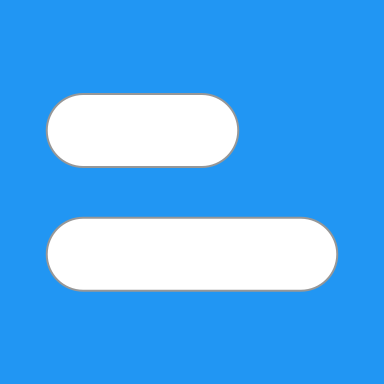
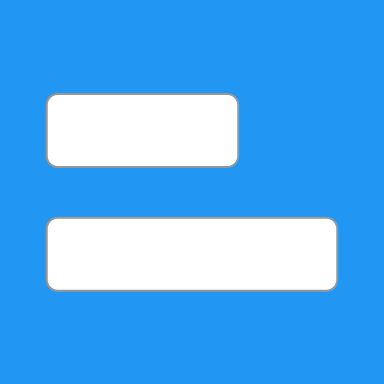
update
* move allActionLink's position
* change App icon

diff --git a/docs/index.7ed35fd9.js b/docs/index.7ed35fd9.js
@@ -1,0 +1,1 @@
+(window.webpackJsonp=window.webpackJsonp||[]).push([["index"],{"2YZa":function(e,t,n){"use strict";n.r(t);var a={};n.r(a),n.d(a,"goal",function(){return pe}),n.d(a,"initState",function(){return Ee}),n.d(a,"unit",function(){return fe}),n.d(a,"action",function(){return be});var l=n("Jkrb");Object(l.b)();var r=n("q1tI"),i=n("i8i4"),c=n("wSuE"),o=n("/MKj"),s=n("oFFJ"),m=n("jKe7"),u=n("2INN"),d=n("DvoB"),g=n("SUMQ"),p=n("r1Q0"),E=n("2iEm"),f=n("HWyw");const b=Object(l.c)({grow:{flexGrow:1,overflow:"hidden",whiteSpace:"nowrap",textOverflow:"ellipsis"}});function y(e){const t=b(),{title:n,backButton:a=!1,children:l}=e;const i=a?r.createElement(d.k,{color:"inherit",onClick:function(){history.back()}},r.createElement(f.b,null)):null;return r.createElement(d.a,{position:"sticky"},r.createElement(d.y,null,i,r.createElement(d.z,{className:t.grow,variant:"h6",color:"inherit"},n),l))}const h=Object(l.c)(e=>({container:{padding:3*e.spacing.unit,paddingTop:0}}));function v({className:e="",children:t}){const n=h();return r.createElement("div",{className:`${n.container} ${e}`},t)}const w=Object(l.c)(e=>({track:{position:"absolute",left:0,bottom:0,width:"100%",height:"100%",backgroundColor:e.palette.primary.light,opacity:.1,pointerEvents:"none",transformOrigin:"left"}}));function k({value:e=0}){const t=w();return r.createElement("div",{style:{transform:`scaleX(${e.toFixed(2)})`},className:t.track})}const x=()=>{};function j(e,t){"[object Date]"!=={}.toString.call(e)&&(e=new Date(parseInt(e,10)));const n={"y+":e.getFullYear(),"M+":e.getMonth()+1,"d+":e.getDate(),"h+":e.getHours(),"m+":e.getMinutes(),"s+":e.getSeconds(),"S+":e.getMilliseconds()};for(const e in n)new RegExp(`(${e})`).test(t)&&(t=t.replace(RegExp.$1,`00${n[e]}`.substr(-RegExp.$1.length)));return t}const S=["本","篇","米","千米","小时","天"],I="/little-goal";function O(e,...t){const n=[];return t.forEach((t,a)=>{n.push(e[a]),n.push(t)}),n.push(e[e.length-1]),`${I}${n.join("")}`}const C=Object(l.c)(e=>({listItem:{border:"1px solid",borderColor:e.palette.primary.light,paddingTop:e.spacing.unit,paddingBottom:e.spacing.unit,marginBottom:1.5*e.spacing.unit,borderRadius:e.shape.borderRadius,overflow:"hidden"},link:{flex:1,marginRight:1.5*e.spacing.unit,color:e.palette.primary.dark,textDecoration:"none"},actionAddLink:{color:e.palette.primary.dark,fontSize:"1rem",lineHeight:"1rem"},icon:{fontSize:"1.125rem"}}));var T=Object(o.b)(e=>({goalList:e.goal}))(function({goalList:e}){const t=C(),n=e.map(e=>{const{id:n,title:a,completeAmount:l=0,amount:i}=e;return r.createElement(d.n,{key:n,className:t.listItem},r.createElement(k,{value:l/i}),r.createElement(E.a,{className:t.link,to:O`/goal/${n}`},a),r.createElement(E.a,{className:t.actionAddLink,to:O`/action/add/${n}`},r.createElement(f.a,{className:t.icon})))});return r.createElement(d.m,null,n)});function N(){return(N=Object.assign||function(e){for(var t=1;t<arguments.length;t++){var n=arguments[t];for(var a in n)Object.prototype.hasOwnProperty.call(n,a)&&(e[a]=n[a])}return e}).apply(this,arguments)}const D=Object(l.c)(e=>({icon:{fontSize:"1.25rem"}})),$={add:f.a,edit:f.f,del:f.e};function L(e){const t=D(),{variant:n,className:a="",...l}=e,i=$[n];return r.createElement(i,N({className:`${t.icon} ${a}`},l))}function B(){return(B=Object.assign||function(e){for(var t=1;t<arguments.length;t++){var n=arguments[t];for(var a in n)Object.prototype.hasOwnProperty.call(n,a)&&(e[a]=n[a])}return e}).apply(this,arguments)}const A=Object(l.c)({link:{color:"inherit"}});function F(e){const{to:t,variant:n,children:a,className:l,...i}=e,c=A();return r.createElement(d.k,{color:"inherit"},r.createElement(E.a,B({to:t,className:`${c.link} ${l}`},i),r.createElement(L,{variant:n})))}const M=Object(l.c)(e=>({contentContainer:{paddingTop:3*e.spacing.unit},emptyContainer:{marginTop:5*e.spacing.unit,textAlign:"center"},addLink:{display:"inline-block",textDecoration:"none"}}));var W=Object(o.b)(e=>({initState:e.initState,goalCount:e.goal.length}))(function({initState:e,goalCount:t}){const n=M();let a;return a=e?0===t?r.createElement("div",{className:n.emptyContainer},r.createElement(E.a,{to:O`/goal/add`,className:n.addLink},r.createElement(d.b,{variant:"outlined",color:"primary"},"定个小目标"))):r.createElement(T,null):null,r.createElement(r.Fragment,null,r.createElement(y,{title:"小目标"},e&&r.createElement(F,{to:O`/goal/add`,variant:"add"})),r.createElement(v,{className:n.contentContainer},a))});var P=Object(o.b)(null,e=>({create:t=>e.unit.create(t)}))(function(e){const{open:t,handleClose:n,create:a,onSuccess:l=x}=e,[i,c]=Object(r.useState)(""),[o,s]=Object(r.useState)("");return r.createElement(d.d,{open:t},r.createElement("form",{onSubmit:async function(e){e.preventDefault();try{const t=await a(i);n(),c(""),l(t)}catch(e){e&&"ConstraintError"===e.name&&s(`已有计量单位: ${i}`)}}},r.createElement(d.h,null,"添加计量单位"),r.createElement(d.f,null,r.createElement(d.g,{color:"error",variant:"body2"},o),r.createElement(d.x,{autoFocus:!0,required:!0,value:i,placeholder:"例如，km",margin:"dense",label:"计量单位",fullWidth:!0,onChange:function(e){i!==e.target.value&&s(""),c(e.target.value)}})),r.createElement(d.e,null,r.createElement(d.b,{color:"primary",onClick:n},"关闭"),r.createElement(d.b,{type:"submit",color:"primary"},"添加"))))});const R=Object(l.c)(e=>({selectControl:{minWidth:120,marginBottom:0},submitButton:{marginTop:3*e.spacing.unit},unitBtn:{padding:4,marginLeft:4,minWidth:0,minHeight:0,fontSize:12,lineHeight:1,fontWeight:"normal",color:e.palette.primary.light,textDecoration:"none"},addBtn:{marginLeft:1.5*e.spacing.unit}}));var q=Object(o.b)(e=>({goalList:e.goal,unitList:e.unit}),e=>({create:t=>e.goal.create(t),update:t=>e.goal.update(t)}))(function(e){const t=R(),{id:n,goalList:a,onSuccess:l=x,create:i,update:c}=e,{unitList:o}=e,s=void 0!==n;let m={};if(s&&(m=a.find(e=>e.id===n)),!m||!o.length)return null;const[u,g]=Object(r.useState)({title:m.title||"",amount:m.amount||"",unitId:m.unitId||o[0].id,startTime:j(m.startTime||new Date,"yyyy-MM-dd"),endTime:m.endTime?j(m.endTime,"yyyy-MM-dd"):`${(new Date).getFullYear()}-12-31`}),p=e=>t=>{g({...u,[e]:t.target.value})},[f,b]=Object(r.useState)(!1);return r.createElement(r.Fragment,null,r.createElement("form",{onSubmit:async e=>{e.preventDefault();const t={...m,...u,amount:parseInt(u.amount,10),startTime:new Date(u.startTime).getTime(),endTime:new Date(u.endTime).getTime()};s?await c(t):await i(t),l()}},r.createElement(d.x,{label:"标题",placeholder:`比如: ${(new Date).getFullYear()}年读12本书`,value:u.title,fullWidth:!0,required:!0,autoFocus:!0,margin:"normal",onChange:p("title")}),r.createElement(d.x,{label:"目标",placeholder:"数量 比如: 12",value:u.amount,fullWidth:!0,required:!0,margin:"normal",type:"number",onChange:p("amount")}),r.createElement(d.j,{container:!0,alignItems:"flex-end"},r.createElement(d.i,{required:!0,className:t.selectControl,margin:"normal"},r.createElement(d.l,null,"计量单位"),r.createElement(d.p,{value:u.unitId,onChange:p("unitId")},o.map(e=>r.createElement(d.o,{key:e.id,value:e.id},e.text)))),r.createElement(d.b,{className:`${t.unitBtn} ${t.addBtn}`,onClick:function(){b(!0)}},"添加"),r.createElement(E.a,{to:O`/unit/list`,className:t.unitBtn},"管理")),r.createElement("div",null,r.createElement(d.x,{label:"开始日期",type:"date",value:u.startTime,required:!0,margin:"normal",onChange:p("startTime")})),r.createElement("div",null,r.createElement(d.x,{label:"结束日期",type:"date",value:u.endTime,required:!0,margin:"normal",onChange:p("endTime")})),r.createElement(d.b,{className:t.submitButton,type:"submit",color:"primary",variant:"contained",fullWidth:!0},"done")),r.createElement(P,{open:f,handleClose:function(){b(!1)},onSuccess:function(e){g({...u,unitId:e})}}))});function H(){return r.createElement(r.Fragment,null,r.createElement(y,{title:"定个小目标",backButton:!0}),r.createElement(v,null,r.createElement(q,{onSuccess:function(){history.back()}})))}const z=Object(l.c)(e=>({actionButton:{marginTop:3*e.spacing.unit},link:{display:"block",textDecoration:"none",color:"inherit"},allActionLink:{display:"inline-block",marginBottom:e.spacing.unit,marginLeft:2*e.spacing.unit,fontSize:12,textDecoration:"none",color:e.palette.primary.light}}));var K=Object(o.b)(e=>({goalList:e.goal,unitList:e.unit}),e=>({del:t=>e.goal.del(t)}))(function({goalList:e,unitList:t,history:n,match:a,del:l}){const i=parseInt(a.params.id,10),c=e.find(e=>e.id===i);if(!c)return null;const o=z(),s=t.find(e=>e.id===c.unitId),{title:m,amount:u,completeAmount:g=0,startTime:p,endTime:f}=c,b={disabled:!0},h=`${(g/u*100).toFixed(2)}%`,w=j(p,"yyyy-MM-dd"),k=j(f,"yyyy-MM-dd"),[x,S]=Object(r.useState)(!1);return r.createElement(r.Fragment,null,r.createElement(y,{title:c.title,backButton:!0},r.createElement(F,{to:O`/goal/edit/${i}`,variant:"edit"}),r.createElement(d.k,{color:"inherit",onClick:function(){S(!0)}},r.createElement(L,{variant:"del"}))),r.createElement(v,null,r.createElement(d.x,{label:"标题",value:m,fullWidth:!0,margin:"normal",inputProps:b}),r.createElement(d.x,{label:"目标",value:u,fullWidth:!0,margin:"normal",inputProps:b}),r.createElement(d.j,{container:!0,alignItems:"flex-end"},r.createElement(d.x,{label:"已完成",value:g,margin:"normal",inputProps:b}),g>0&&r.createElement(E.a,{to:O`/action/list/${i}`,className:o.allActionLink},"全部完成项")),r.createElement(d.x,{label:"进度",value:h,fullWidth:!0,margin:"normal",inputProps:b}),r.createElement(d.x,{label:"计量单位",value:s.text,margin:"normal",inputProps:b}),r.createElement("div",null,r.createElement(d.x,{label:"开始日期",type:"date",value:w,margin:"normal",inputProps:b})),r.createElement("div",null,r.createElement(d.x,{label:"结束日期",type:"date",value:k,margin:"normal",inputProps:b})),r.createElement(E.a,{to:O`/action/add/${i}`,className:o.link},r.createElement(d.b,{className:o.actionButton,color:"primary",variant:"contained",fullWidth:!0},"向前一小步"))),r.createElement(d.d,{open:x},r.createElement(d.h,null,"放弃「",c.title,"」?"),r.createElement(d.f,null,r.createElement(d.g,null,"最可怕的敌人，就是没有坚强的信念。——罗曼·罗兰")),r.createElement(d.e,null,r.createElement(d.b,{color:"primary",onClick:function(){S(!1)}},"再坚持一下"),r.createElement(d.b,{color:"primary",onClick:async function(){await l(i),n.goBack()}},"删了吧"))))});function Y({match:e}){const t=parseInt(e.params.id,10);return r.createElement(r.Fragment,null,r.createElement(y,{title:"修改小目标",backButton:!0}),r.createElement(v,null,r.createElement(q,{id:t,onSuccess:function(){history.back()}})))}const J=Object(l.c)(e=>({selectControl:{minWidth:120},submitButton:{marginTop:3*e.spacing.unit}}));var G=Object(o.b)(e=>({goalList:e.goal}),e=>({create:t=>e.action.create(t)}))(function(e){const t=J(),{goalId:n,goalList:a,onSuccess:l=x,create:i}=e,c=a.find(e=>e.id===n);if(!c)return null;const[o,s]=Object(r.useState)({amount:"",time:j(new Date,"yyyy-MM-ddThh:mm")}),m=e=>t=>{s({...o,[e]:t.target.value})};return r.createElement("form",{onSubmit:async e=>{e.preventDefault();const{time:t}=o,[n,a]=t.split("T"),[r,s]=a.split(":"),m=new Date(n);m.setHours(r),m.setMinutes(s);const u={goalId:c.id,...o,amount:parseInt(o.amount,10),time:m.getTime()};await i(u),l()}},r.createElement(d.x,{label:"目标",value:c.title,fullWidth:!0,margin:"normal",inputProps:{disabled:!0}}),r.createElement(d.x,{label:"完成量",placeholder:"数量 比如: 1",value:o.amount,fullWidth:!0,required:!0,margin:"normal",type:"number",autoFocus:!0,onChange:m("amount")}),r.createElement("div",null,r.createElement(d.x,{label:"完成时间",type:"datetime-local",value:o.time,required:!0,margin:"normal",onChange:m("time")})),r.createElement(d.b,{className:t.submitButton,type:"submit",color:"primary",variant:"contained",fullWidth:!0},"done"))});function V({history:e,match:t}){const n=parseInt(t.params.id,10);return r.createElement(r.Fragment,null,r.createElement(y,{title:"向前一小步",backButton:!0}),r.createElement(v,null,r.createElement(G,{onSuccess:function(){e.goBack()},goalId:n})))}var Q=n("1w3K"),Z=n("2tl8");const U="little-goal",X=1;let _;async function ee(){return _||(_=await Z.a.open(U,X)),_}async function te(e){return(await ee()).transaction("action","readwrite").objectStore("action").delete(e)}var ne=Object(l.c)(e=>({thcell:{"&:last-child":{paddingRight:35}},cellExit:{opacity:1,transition:"all .3s ease-in"},cellExitActive:{opacity:0},icon:{fontSize:"1.125rem"}}));const ae=Object(l.c)(e=>({cell:{paddingLeft:1.5*e.spacing.unit,paddingRight:1.5*e.spacing.unit,"&:last-child":{paddingRight:1.5*e.spacing.unit}}}));var le=Object(o.b)(e=>({goalList:e.goal}),e=>({del:t=>e.action.del(t)}))(function({goalId:e,del:t}){const n=ae(),a=ne(),[l,i]=Object(r.useState)({count:0,list:[]}),{count:c,list:o}=l;async function s(){const t=await async function(e){const t=(await ee()).transaction("action","readonly").objectStore("action");if(void 0===e)return t.count();const n=t.index("goalId"),a=await n.getAllKeys(IDBKeyRange.only(e));return a?a.length:0}(e),n=await async function({goalId:e,start:t=0,limit:n=1/0,fromTime:a=new Date("1970-01-10").getTime(),endTime:l=Date.now()}){let r=1;const i=[],c=(await ee()).transaction("action","readonly").objectStore("action").index("goalId-time");let o=await c.openCursor(IDBKeyRange.bound([e,a],[e,l]),"prev");if(o)for(t>0&&await o.advance(t);o&&r<=n;)r+=1,i.push(o.value),o=await o.continue();return i}({goalId:e,start:o.length,limit:20});i({count:t,list:[...o,...n]})}async function m(e){const n=e.currentTarget,a=parseInt(n.dataset.id,10);await t(a);const r=[...o],c=r.findIndex(e=>e.id===a);r.splice(c,1),i({...l,list:r,count:l.count-1})}Object(r.useEffect)(()=>{s()},[e]);const u=o.map(e=>r.createElement(Q.CSSTransition,{key:e.id,timeout:300,classNames:{exit:a.cellExit,exitActive:a.cellExitActive}},r.createElement(d.w,{key:e.id},r.createElement(d.u,{scope:"row",className:n.cell},j(e.time,"yyyy-MM-dd hh:mm")),r.createElement(d.u,{className:n.cell},e.amount),r.createElement(d.u,{align:"center",className:n.cell},r.createElement(d.k,{onClick:m,"data-id":e.id},r.createElement(f.e,{className:a.icon}))))));return r.createElement(r.Fragment,null,r.createElement(d.s,null,r.createElement(d.v,null,r.createElement(d.w,null,r.createElement(d.u,{className:n.cell},"日期"),r.createElement(d.u,{className:n.cell},"数量"),r.createElement(d.u,{align:"center",className:n.cell},"操作"))),r.createElement(d.t,null,r.createElement(Q.TransitionGroup,{component:null},u))),c>o.length&&r.createElement(d.b,{color:"primary",onClick:s},"更多"))});var re=Object(o.b)(e=>({goalList:e.goal}))(function({goalList:e,match:t}){const n=parseInt(t.params.id,10),a=e.find(e=>e.id===n);if(!a)return null;const{title:l}=a;return r.createElement(r.Fragment,null,r.createElement(y,{title:l,backButton:!0},r.createElement(F,{to:O`/action/add/${n}`,variant:"add"})),r.createElement(v,null,r.createElement(le,{goalId:n})))});const ie=Object(l.c)(e=>({success:{backgroundColor:p.green[600]},error:{backgroundColor:e.palette.error.dark},info:{backgroundColor:e.palette.primary.dark},warning:{backgroundColor:p.amber[700]},icon:{fontSize:20},iconVariant:{opacity:.9,marginRight:e.spacing.unit},message:{display:"flex",aliginItems:"center"}})),ce={success:f.c,warning:f.i,error:f.g,info:f.h};function oe({open:e=!1,variant:t,autoHideDuration:n=null,onClose:a=x,message:l,className:i=""}){const c=ie(),o=ce[t];return r.createElement(d.q,{open:e,autoHideDuration:n,onClose:a},r.createElement(d.r,{className:`${c[t]} ${i}`,message:r.createElement("span",{className:c.message},r.createElement(o,{className:`${c.icon} ${c.iconVariant}`}),l),action:[r.createElement(d.k,{key:"close",color:"inherit",onClick:a},r.createElement(f.d,{className:c.icon}))]}))}var se=Object(o.b)(e=>({goalList:e.goal,unitList:e.unit}),e=>({del:t=>e.unit.del(t)}))(function(e){const{unitList:t,goalList:n,del:a}=e,l=ne(),[i,c]=Object(r.useState)({open:!1,message:"",variant:"error"});function o(e){const l=parseInt(e.currentTarget.dataset.id,10),r=t.find(e=>e.id===l);n.some(e=>e.unitId===l)?c({...i,open:!0,message:`有目标在使用「${r.text}」, 不能删除.`}):t.length<=1?c({...i,open:!0,message:"这是最后一个计量单位, 不能删除."}):a(l)}const s=t.map(e=>r.createElement(Q.CSSTransition,{key:e.id,timeout:300,classNames:{exit:l.cellExit,exitActive:l.cellExitActive}},r.createElement(d.w,{key:e.id},r.createElement(d.u,null,e.text),r.createElement(d.u,{align:"right"},r.createElement(d.k,{"data-id":e.id,onClick:o},r.createElement(f.e,{className:l.icon})))))),m=r.createElement(r.Fragment,null,r.createElement(d.s,null,r.createElement(d.v,null,r.createElement(d.w,null,r.createElement(d.u,{className:l.thcell},"计量单位"),r.createElement(d.u,{align:"right",className:l.thcell},"操作"))),r.createElement(d.t,null,r.createElement(Q.TransitionGroup,{component:null},s))));return r.createElement(r.Fragment,null,m,r.createElement(oe,{open:i.open,message:i.message,variant:i.variant,onClose:function(){c({...i,open:!1})},autoHideDuration:2e3}))});function me(){const[e,t]=Object(r.useState)(!1);return r.createElement(r.Fragment,null,r.createElement(y,{title:"计量单位",backButton:!0},r.createElement(d.k,{onClick:function(){t(!0)},color:"inherit"},r.createElement(f.a,null))),r.createElement(v,null,r.createElement(se,null)),r.createElement(P,{open:e,handleClose:function(){t(!1)}}))}const ue=Object(g.createMuiTheme)({typography:{useNextVariants:!0},palette:{primary:p.blue}});var de=Object(c.hot)(function({store:e}){return r.createElement(s.a,null,r.createElement(o.a,{store:e},r.createElement(l.a,{theme:ue},r.createElement(d.c,null),r.createElement(m.a,null,r.createElement(u.a,{path:O`/`,exact:!0,component:W}),r.createElement(u.a,{path:O`/goal/add`,component:H}),r.createElement(u.a,{path:O`/goal/:id`,exact:!0,component:K}),r.createElement(u.a,{path:O`/goal/edit/:id`,component:Y}),r.createElement(u.a,{path:O`/action/add/:id`,component:V}),r.createElement(u.a,{path:O`/action/list/:id`,component:re}),r.createElement(u.a,{path:O`/unit/list`,component:me}),r.createElement(u.a,{component:W})))))}),ge=n("EWxa");const pe={state:[],reducers:{add:(e,t)=>[...Array.isArray(t)?t:[t],...e],remove(e,t){const n=[...e],a=n.findIndex(e=>e.id===t);return-1!==a?(n.splice(a,1),[...n]):e},replace(e,t){const n=[...e],a=n.findIndex(e=>e.id===t.id);return-1!==a?(n.splice(a,1,t),[...n]):e},unshift:(e,t)=>[t,...e]},effects:e=>({async create(t){const n=await async function(e){const t=(await ee()).transaction("goal","readwrite").objectStore("goal");return e.createTime=Date.now(),t.add(e)}(t);t.id=n,e.goal.unshift(t)},async update(t){await async function(e){const t=(await ee()).transaction("goal","readwrite").objectStore("goal"),n=await t.openCursor(e.id);if(e.updateTime=Date.now(),n)return n.update(e)}(t),e.goal.replace(t)},async del(t){await async function(e){const t=(await ee()).transaction(["goal","action"],"readwrite"),n=t.objectStore("goal"),a=t.objectStore("action").index("goalId");n.delete(e);let l=await a.openCursor(e);for(;l;)await l.delete(),l=await l.continue()}(t),e.goal.remove(t)}})},Ee={state:!1,reducers:{setState:(e,t)=>t}};const fe={state:[],reducers:{add:(e,t)=>[...Array.isArray(t)?t:[t],...e],remove(e,t){const n=[...e],a=n.findIndex(e=>e.id===t);return-1!==a?(n.splice(a,1),n):e}},effects:e=>({async create(t){const n=await async function(e){const t={...e,createTime:Date.now()};return(await ee()).transaction("unit","readwrite").objectStore("unit").add(t)}({text:t});return e.unit.add({text:t,id:n}),n},async del(t){await async function(e){return(await ee()).transaction("unit","readwrite").objectStore("unit").delete(e)}(t),e.unit.remove(t)}})},be={state:[],reducers:{add:(e,t)=>[t,...e]},effects:e=>({async create(t,n){const a=await async function(e){const t={...e,createTime:Date.now()};return(await ee()).transaction("action","readwrite").objectStore("action").add(t)}(t);t.id=a,e.action.add(t);const{goal:l}=n,r={...l.find(e=>e.id===t.goalId)};return r.completeAmount=(r.completeAmount||0)+t.amount,e.goal.update(r)},async del(t,n){const a=await async function(e){return(await ee()).transaction("action","readonly").objectStore("action").get(e)}(t),{amount:l,goalId:r}=a,{goal:i}=n,c={...i.find(e=>e.id===r)};return c.completeAmount=(c.completeAmount||0)-l,Promise.all([te(t),e.goal.update(c)])}})},ye=Object(ge.init)({models:a});window.store=ye,async function(){await async function(){let e=-1;if(_=await Z.a.open(U,X,(t,n,a)=>{e=n;const l=t.createObjectStore("goal",{autoIncrement:!0,keyPath:"id"});l.createIndex("createTime","createTime"),l.createIndex("updateTime","updateTime");const r=t.createObjectStore("action",{autoIncrement:!0,keyPath:"id"});r.createIndex("goalId","goalId"),r.createIndex("time","time"),r.createIndex("goalId-time",["goalId","time"]),t.createObjectStore("unit",{autoIncrement:!0,keyPath:"id"}).createIndex("text","text",{unique:!0})}),0===e){const e=_.transaction("unit","readwrite").objectStore("unit");return Promise.all(S.map(t=>e.add({text:t})))}}();const e=await async function(){return(await ee()).transaction("unit","readonly").objectStore("unit").getAll()}(),t=await async function(){return(await ee()).transaction("goal","readonly").objectStore("goal").getAll()}();t.reverse(),e.reverse(),ye.dispatch.unit.add(e),ye.dispatch.goal.add(t),ye.dispatch.initState.setState(!0)}(),i.render(r.createElement(de,{store:ye}),document.getElementById("app")),"serviceWorker"in navigator&&navigator.serviceWorker.register("./sw.js").then(e=>{console.log("registion sw.js success.")}).catch(e=>{console.log("registion failed ",e)})}},[["2YZa","manifest","vendor"]]]);

diff --git a/src/components/pages/Goal.tsx b/src/components/pages/Goal.tsx
@@ -12,7 +12,8 @@ import {
   DialogActions,
   DialogContent,
   DialogTitle,
-  DialogContentText
+  DialogContentText,
+  Grid
 } from '@material-ui/core'
 
 import ContentContainer from '../ContentContainer'
@@ -33,9 +34,11 @@ const useStyles = makeStyles((theme) => ({
   },
   allActionLink: {
     display: 'inline-block',
-    marginTop: theme.spacing.unit,
+    marginBottom: theme.spacing.unit,
+    marginLeft: theme.spacing.unit * 2,
+    fontSize: 12,
     textDecoration: 'none',
-    color: 'inherit'
+    color: theme.palette.primary.light
   }
 }))
 
@@ -115,13 +118,26 @@ function Goal ({ goalList, unitList, history, match, del }) {
           margin="normal"
           inputProps={inputProps}
         />
-        <TextField
-          label="已完成"
-          value={completeAmount}
-          fullWidth={true}
-          margin="normal"
-          inputProps={inputProps}
-        />
+        <Grid
+          container={true}
+          alignItems="flex-end"
+        >
+          <TextField
+            label="已完成"
+            value={completeAmount}
+            margin="normal"
+            inputProps={inputProps}
+          />
+          {
+            completeAmount > 0 &&
+            <Link
+              to={pathTag`/action/list/${id}`}
+              className={classes.allActionLink}
+            >
+              全部完成项
+            </Link>
+          }
+        </Grid>
         <TextField
           label="进度"
           value={rate}
@@ -166,19 +182,6 @@ function Goal ({ goalList, unitList, history, match, del }) {
             向前一小步
           </Button>
         </Link>
-        {
-          completeAmount > 0 &&
-          <Link
-            to={pathTag`/action/list/${id}`}
-            className={classes.allActionLink}
-          >
-            <Button
-              color="primary"
-            >
-              全部完成项
-            </Button>
-          </Link>
-        }
       </ContentContainer>
       <Dialog
         open={open}

diff --git a/docs/sw.js b/docs/sw.js
@@ -1,5 +1,5 @@
 importScripts('assets.js');
-const CACHE_VERSION = 1;
+const CACHE_VERSION = 2;
 const CACHE_NAME = `little-goal-offline-v${CACHE_VERSION}`;
 const ASSETS_TO_CACHE = [
     ...self.assets,
@@ -13,7 +13,7 @@ const ASSETS_TO_CACHE = [
 addEventListener('install', (e) => {
     async function cacheAll() {
         const cache = await caches.open(CACHE_NAME);
-        await cache.addAll(ASSETS_TO_CACHE);
+        return cache.addAll(ASSETS_TO_CACHE);
     }
     e.waitUntil(cacheAll());
 });
@@ -22,4 +22,12 @@ addEventListener('fetch', (event) => {
         .then((response) => {
         return response || fetch(event.request);
     }));
+});
+addEventListener('activate', (event) => {
+    async function clear() {
+        const keys = await caches.keys();
+        const deleteKeys = keys.filter((key) => key !== CACHE_NAME);
+        return Promise.all(deleteKeys.map((key) => caches.delete(key)));
+    }
+    event.waitUntil(clear());
 });

diff --git a/src/sw.ts b/src/sw.ts
@@ -1,6 +1,6 @@
 importScripts('assets.js')
 
-const CACHE_VERSION = 1
+const CACHE_VERSION = 2
 const CACHE_NAME = `little-goal-offline-v${CACHE_VERSION}`
 const ASSETS_TO_CACHE = [
   ...(self as any).assets,
@@ -16,7 +16,7 @@ addEventListener('install', (e: any) => {
 
   async function cacheAll () {
     const cache = await caches.open(CACHE_NAME)
-    await cache.addAll(ASSETS_TO_CACHE)
+    return cache.addAll(ASSETS_TO_CACHE)
   }
 
   e.waitUntil(cacheAll())
@@ -29,4 +29,17 @@ addEventListener('fetch', (event: any) => {
       return response || fetch(event.request)
     })
   )
+})
+
+addEventListener('activate', (event: any) => {
+
+  async function clear () {
+
+    const keys = await caches.keys()
+    const deleteKeys = keys.filter((key) => key !== CACHE_NAME)
+
+    return Promise.all(deleteKeys.map((key) => caches.delete(key)))
+  }
+
+  event.waitUntil(clear())
 })

diff --git a/docs/index.html b/docs/index.html
@@ -15,5 +15,5 @@
 </head>
 <body>
   <div id="app"></div>
-<script type="text/javascript" src="manifest.7da14f58.js"></script><script type="text/javascript" src="vendor.362241c8.js"></script><script type="text/javascript" src="index.a3ea05fc.js"></script></body>
+<script type="text/javascript" src="manifest.7da14f58.js"></script><script type="text/javascript" src="vendor.362241c8.js"></script><script type="text/javascript" src="index.7ed35fd9.js"></script></body>
 </html>

diff --git a/docs/assets.js b/docs/assets.js
@@ -1,1 +1,1 @@
-var assets = ["manifest.7da14f58.js","index.a3ea05fc.js","vendor.362241c8.js"]
+var assets = ["manifest.7da14f58.js","index.7ed35fd9.js","vendor.362241c8.js"]
